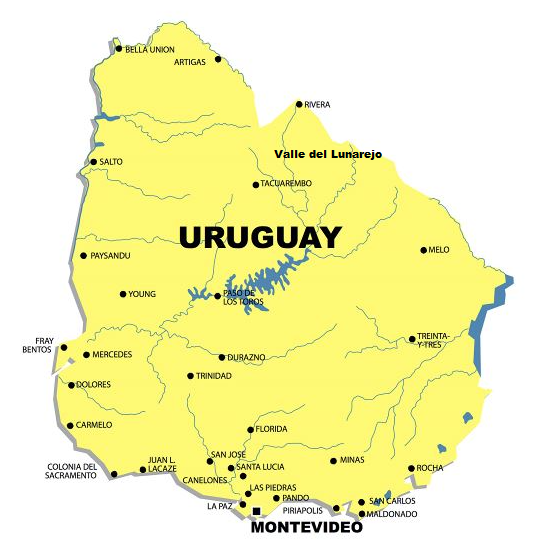
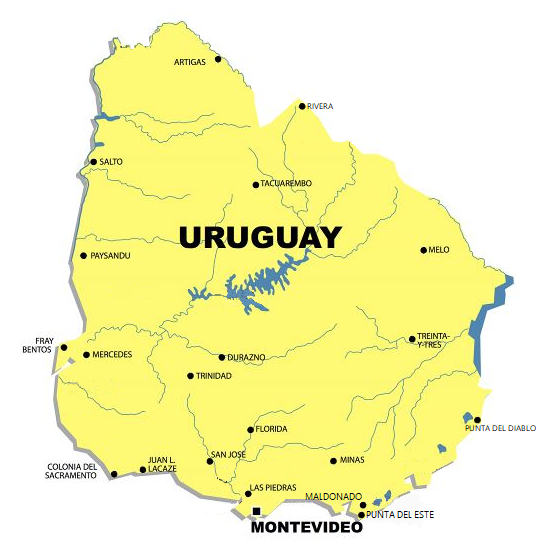
Actualizar mapaUruguayCiudades.jpg y ubicaciones de los botones.

diff --git a/src/main/java/biblioteca/Ciudad.java b/src/main/java/biblioteca/Ciudad.java
@@ -27,27 +27,27 @@ public class Ciudad {
     public List<Ciudad> obtenerTodasLasCiudades() {
         List<Ciudad> ciudades = new ArrayList<>();
         //ciudades con coordenadas 
-        ciudades.add(new Ciudad(1, "Colonia del Sacramento", "Descripción de Colonia", "imagenes/Colonia.png", 160, 480));
+        ciudades.add(new Ciudad(1, "Colonia del Sacramento", "Descripción de Colonia", "imagenes/Colonia.png", 158, 480));
         ciudades.add(new Ciudad(2, "Montevideo", "Descripción de Montevideo", "imagenes/Montevideo.png",360, 515));
-        ciudades.add(new Ciudad(3, "Juan Lacaze", "Descripción de Canelones", "imagenes/Canelones.png", 150, 400));
-        ciudades.add(new Ciudad(4, "Punta del Este", "Descripción de Maldonado", "imagenes/Maldonado.png", 510, 520));
-        ciudades.add(new Ciudad(5, "Maldonado", "Descripción de Rivera", "imagenes/Maldonado.png", 400, 100));
-        ciudades.add(new Ciudad(6, "Las Piedras", "Descripción de Salto", "imagenes/Salto.png", 350, 50));
-        ciudades.add(new Ciudad(7, "Paysandú", "Descripción de Paysandú", "imagenes/Paysandu.png", 300, 100));
-        ciudades.add(new Ciudad(8, "Artigas", "Descripción de Artigas", "imagenes/Artigas.png", 450, 50));
-        ciudades.add(new Ciudad(9, "San José de Mayo", "Descripción de San José", "imagenes/SanJose.png", 250, 500));
-        ciudades.add(new Ciudad(10, "Tacuarembó", "Descripción de Tacuarembó", "imagenes/Tacuarembo.png", 400, 300));
-        ciudades.add(new Ciudad(11, "Florida", "Descripción de Florida", "imagenes/Florida.png", 300, 350));
-        ciudades.add(new Ciudad(12, "Durazno", "Descripción de Durazno", "imagenes/Durazno.png", 350, 400));
-        ciudades.add(new Ciudad(13, "Melo", "Descripción de Cerro Largo", "imagenes/CerroLargo.png", 500, 450));
-        ciudades.add(new Ciudad(14, "Punta del Diablo", "Descripción de Rocha", "imagenes/Rocha.png", 550, 500));
-        ciudades.add(new Ciudad(15, "Treinta y Tres", "Descripción de Treinta y Tres", "imagenes/TreintayTres.png", 600, 450));
-        ciudades.add(new Ciudad(16, "Minas", "Descripción de Lavalleja", "imagenes/Lavalleja.png", 650, 400));
-        ciudades.add(new Ciudad(17, "Salto", "Descripción de Flores", "imagenes/Flores.png", 130, 165));
-        ciudades.add(new Ciudad(18, "Fray Bentos", "Descripción de Río Negro", "imagenes/RioNegro.png", 250, 100));
-        ciudades.add(new Ciudad(19, "Mercedes", "Descripción de Soriano", "imagenes/Soriano.png", 250, 180));
-        ciudades.add(new Ciudad(20, "Rivera", "Descripción de Rivera", "imagenes/FrayBentos.png", 100, 100));
-        ciudades.add(new Ciudad(21, "Trinidad", "Descripción de Melo", "imagenes/Melo.png", 600, 200));
+        ciudades.add(new Ciudad(3, "Juan Lacaze", "Descripción de Canelones", "imagenes/Canelones.png", 198, 474));
+        ciudades.add(new Ciudad(4, "Punta del Este", "Descripción de Maldonado", "imagenes/Maldonado.png", 509, 522));
+        ciudades.add(new Ciudad(5, "Maldonado", "Descripción de Rivera", "imagenes/Maldonado.png", 512, 511));
+        ciudades.add(new Ciudad(6, "Las Piedras", "Descripción de Las Piedras", "imagenes/Salto.png", 349, 501));
+        ciudades.add(new Ciudad(7, "Paysandú", "Descripción de Paysandú", "imagenes/Paysandu.png", 114, 257));
+        ciudades.add(new Ciudad(8, "Artigas", "Descripción de Artigas", "imagenes/Artigas.png", 305, 55));
+        ciudades.add(new Ciudad(9, "San José de Mayo", "Descripción de San José", "imagenes/SanJose.png", 293, 468));
+        ciudades.add(new Ciudad(10, "Tacuarembó", "Descripción de Tacuarembó", "imagenes/Tacuarembo.png", 359, 183));
+        ciudades.add(new Ciudad(11, "Florida", "Descripción de Florida", "imagenes/Florida.png", 351, 434));
+        ciudades.add(new Ciudad(12, "Durazno", "Descripción de Durazno", "imagenes/Durazno.png", 310, 360));
+        ciudades.add(new Ciudad(13, "Melo", "Descripción de Cerro Largo", "imagenes/CerroLargo.png", 598, 250));
+        ciudades.add(new Ciudad(14, "Punta del Diablo", "Descripción de Rocha", "imagenes/Rocha.png", 674, 422));
+        ciudades.add(new Ciudad(15, "Treinta y Tres", "Descripción de Treinta y Tres", "imagenes/TreintayTres.png", 582, 341));
+        ciudades.add(new Ciudad(16, "Minas", "Descripción de Lavalleja", "imagenes/Lavalleja.png", 470, 465));
+        ciudades.add(new Ciudad(17, "Salto", "Descripción de Flores", "imagenes/Flores.png", 128, 160));
+        ciudades.add(new Ciudad(18, "Fray Bentos", "Descripción de Río Negro", "imagenes/RioNegro.png", 85, 350));
+        ciudades.add(new Ciudad(19, "Mercedes", "Descripción de Soriano", "imagenes/Soriano.png", 118, 357));
+        ciudades.add(new Ciudad(20, "Rivera", "Descripción de Rivera", "imagenes/FrayBentos.png", 425, 105));
+        ciudades.add(new Ciudad(21, "Trinidad", "Descripción de Trinidad", "imagenes/Melo.png", 266, 379));
       
         return ciudades;
     }
